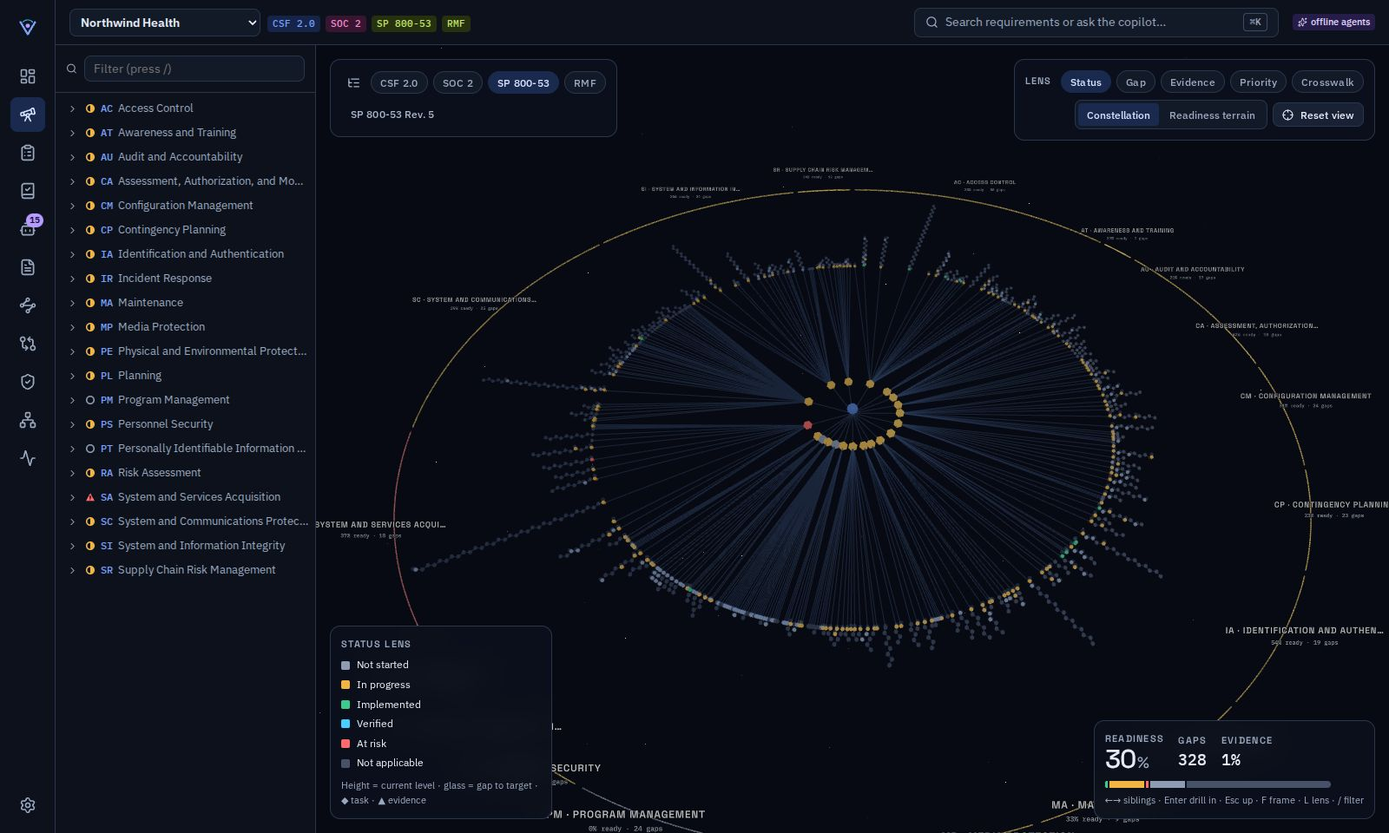
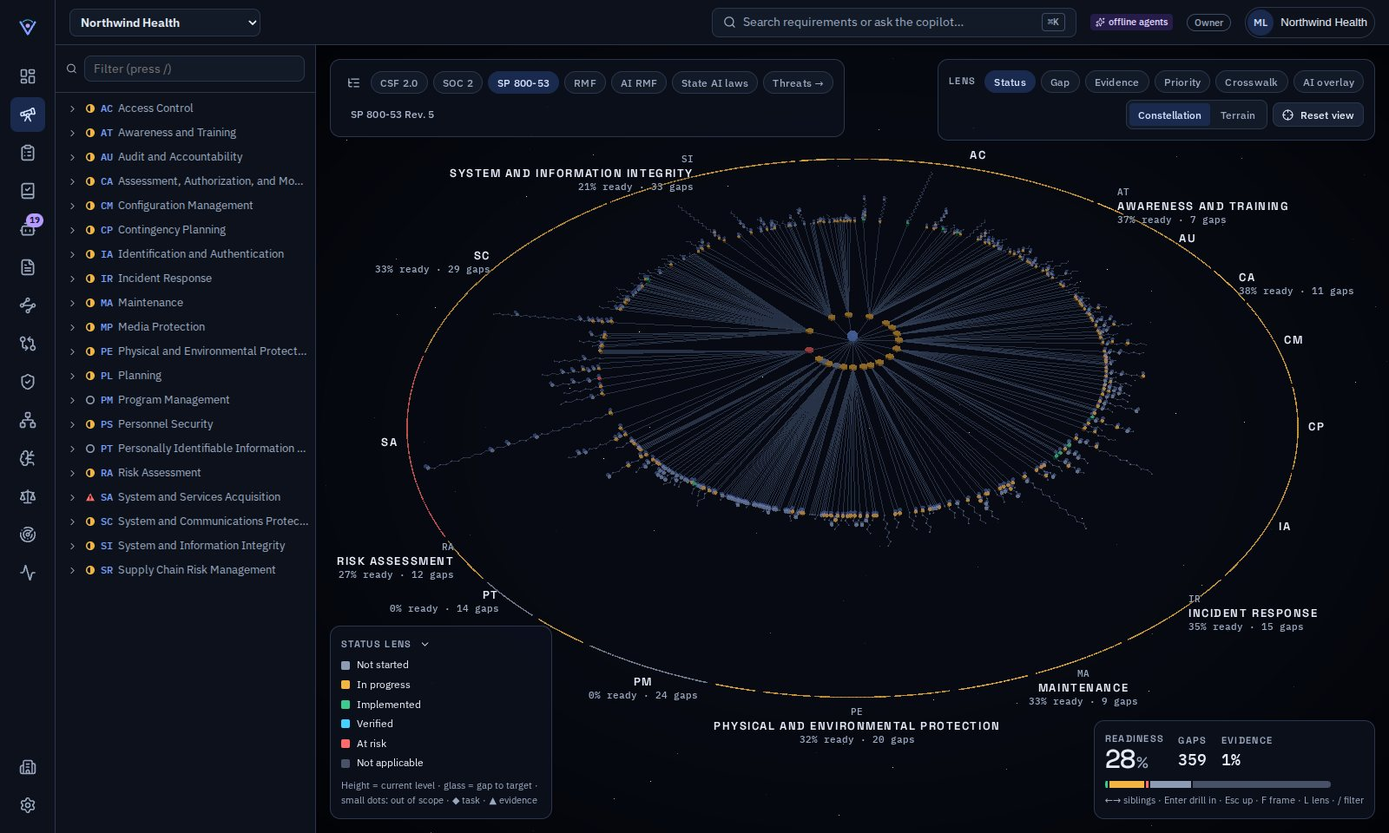
Refresh the README images and the docs to match the current views
- pnpm screens --docs regenerates the nine README images (the same
  views, sizes and selections every time) from the running demo, so the
  images show the current Observatory, Nexus, threat views and pages.
- README: the Observatory's labels and framing, phones, link status on
  Nexus arcs, Copilot answers and agent evidence through proposals, the
  laws timeline and the grouped threat inspector; test counts (138 unit
  and API tests, 20 end-to-end tests) and the screenshot commands.
- Architecture: transfer (compression, ETags, immutable assets), the
  shell and layouts below 1024px, screen-space labels and framing, the
  Nexus's batched arcs and link status, the threat views' grouping and
  matrix keyboard, the laws timeline, build chunks, the tests added in
  this review, and two known limitations found in it (SSO issuer
  discovery reaches private addresses; the demo seeds its history in
  bulk).
- CLAUDE.md lists pnpm screens.

Claude-Session: https://claude.ai/code/session_01RD1CBFZidZXBbs9oq8V2Ae

diff --git a/scripts/screens.ts b/scripts/screens.ts
@@ -10,6 +10,7 @@
  *   pnpm screens --sizes 390x844         only these sizes (default: 1440x900,1024x768,390x844)
  *   pnpm screens --no-build              reuse apps/web/dist
  *   pnpm screens --url http://localhost:8787   shoot a server that is already running
+ *   pnpm screens --docs                  refresh the README images in docs/images instead
  */
 import { chromium, type Browser, type BrowserContext, type Page } from "@playwright/test";
 import { spawn, spawnSync, type ChildProcess } from "node:child_process";
@@ -36,6 +37,7 @@ const sizes = (option("sizes") ?? "1440x900,1024x768,390x844").split(",").map((s
   return { width: width!, height: height!, name: s };
 });
 const OUT = join(ROOT, ".screens", label);
+const DOCS = flag("docs");
 
 // ------------------------------------------------------------------ server
 
@@ -176,6 +178,38 @@ function shots(meta: Meta, runId: string | undefined): Shot[] {
   return only ? list.filter((s) => only.some((o) => s.name.includes(o))) : list;
 }
 
+/** The README's images: the same views every time, so a refresh shows only what changed. */
+interface DocShot {
+  file: string;
+  path: string;
+  kind: Kind;
+  width: number;
+  height: number;
+  act?: (page: Page) => Promise<void>;
+}
+const DOC_SHOTS: DocShot[] = [
+  { file: "observatory-csf.jpg", path: `${WS}/observatory/nist-csf-2.0`, kind: "scene", width: 1600, height: 960 },
+  { file: "crosswalk-nexus.jpg", path: `${WS}/crosswalk`, kind: "scene", width: 1600, height: 960 },
+  { file: "observatory-800-53.jpg", path: `${WS}/observatory/nist-sp-800-53-r5`, kind: "scene", width: 1600, height: 960 },
+  { file: "home.jpg", path: WS, kind: "page", width: 1600, height: 960 },
+  { file: "rmf.jpg", path: `${WS}/rmf`, kind: "page", width: 1600, height: 960 },
+  { file: "ai-governance.jpg", path: `${WS}/ai`, kind: "page", width: 1600, height: 960 },
+  { file: "soc2.jpg", path: `${WS}/soc2`, kind: "page", width: 1600, height: 960 },
+  {
+    file: "threats-atlas.jpg",
+    path: `${WS}/threats/mitre-atlas?select=${encodeURIComponent("mitre-atlas:AML.T0051")}`,
+    kind: "page",
+    width: 1440,
+    height: 900,
+    act: async (page) => {
+      await page.locator(".atlas-matrix").evaluate((el) => el.scrollIntoView({ block: "start" }));
+      await page.locator(".page").first().evaluate((el) => el.scrollBy(0, -170));
+      await page.waitForTimeout(400);
+    },
+  },
+  { file: "nexus-threat-ring.jpg", path: `${WS}/crosswalk?group=${encodeURIComponent("owasp-llm-top10:LLM01")}`, kind: "scene", width: 1440, height: 900 },
+];
+
 // ------------------------------------------------------------------ checks
 
 interface Overflow {
@@ -286,38 +320,56 @@ const browser = await chromium.launch({ args: ["--use-angle=swiftshader", "--ena
 const t0 = Date.now();
 const results: Result[] = [];
 try {
-  const probe = await context(browser, server.base, sizes[0]!, true);
-  const meta = (await (await probe.request.get("/api/meta")).json()) as Meta;
-  const runs = (await (await probe.request.get(`/api/workspaces/${WS_SLUG}/runs?limit=20`)).json()) as { id: string; status: string; agent: string }[];
-  const run = runs.find((r) => r.agent === "auditor-prep") ?? runs.find((r) => r.status === "completed") ?? runs[0];
-  await probe.close();
-  const list = shots(meta, run?.id);
-  console.log(`${list.length} shots × ${sizes.length} sizes → ${relative(ROOT, OUT)}/`);
-  for (const size of sizes) {
-    const signedIn = await context(browser, server.base, size, true);
-    const signedOut = await context(browser, server.base, size, false);
-    for (const shot of list) {
-      // A fresh tab per shot: each 3D view gets its own WebGL context, released when the tab closes.
-      const page = await (shot.signedOut ? signedOut : signedIn).newPage();
-      try {
-        const r = await shoot(page, shot, size);
-        results.push(r);
-        const notes = [r.overflow.length ? `${r.overflow.length} horizontal overflow` : "", r.errors.length ? `${r.errors.length} console error(s)` : ""].filter(Boolean).join(", ");
-        console.log(`  ${size.name.padEnd(9)} ${shot.name.padEnd(40)} ${notes || "ok"}`);
-      } catch (err) {
-        console.log(`  ${size.name.padEnd(9)} ${shot.name.padEnd(40)} FAILED: ${(err as Error).message.split("\n")[0]}`);
-        results.push({ shot: shot.name, size: size.name, file: "", overflow: [], errors: [`harness: ${(err as Error).message.split("\n")[0]}`], ms: 0 });
-      } finally {
-        await page.close();
-      }
+  if (DOCS) {
+    for (const d of DOC_SHOTS) {
+      const ctx = await context(browser, server.base, { width: d.width, height: d.height, name: `${d.width}x${d.height}` }, true);
+      const page = await ctx.newPage();
+      await page.goto(d.path, { waitUntil: "load" });
+      if (d.kind === "scene") await page.locator(".observatory__canvas canvas").first().waitFor({ timeout: 20_000 });
+      else await page.locator("h1, h2").first().waitFor({ timeout: 20_000 });
+      await page.waitForTimeout(d.kind === "scene" ? 3500 : 1000);
+      if (d.act) await d.act(page);
+      const file = join(ROOT, "docs", "images", d.file);
+      await page.screenshot({ path: file, type: "jpeg", quality: 84 });
+      console.log(`  ${relative(ROOT, file)}`);
+      await ctx.close();
     }
-    await signedIn.close();
-    await signedOut.close();
+  } else {
+    const probe = await context(browser, server.base, sizes[0]!, true);
+    const meta = (await (await probe.request.get("/api/meta")).json()) as Meta;
+    const runs = (await (await probe.request.get(`/api/workspaces/${WS_SLUG}/runs?limit=20`)).json()) as { id: string; status: string; agent: string }[];
+    const run = runs.find((r) => r.agent === "auditor-prep") ?? runs.find((r) => r.status === "completed") ?? runs[0];
+    await probe.close();
+    const list = shots(meta, run?.id);
+    console.log(`${list.length} shots × ${sizes.length} sizes → ${relative(ROOT, OUT)}/`);
+    for (const size of sizes) {
+      const signedIn = await context(browser, server.base, size, true);
+      const signedOut = await context(browser, server.base, size, false);
+      for (const shot of list) {
+        // A fresh tab per shot: each 3D view gets its own WebGL context, released when the tab closes.
+        const page = await (shot.signedOut ? signedOut : signedIn).newPage();
+        try {
+          const r = await shoot(page, shot, size);
+          results.push(r);
+          const notes = [r.overflow.length ? `${r.overflow.length} horizontal overflow` : "", r.errors.length ? `${r.errors.length} console error(s)` : ""].filter(Boolean).join(", ");
+          console.log(`  ${size.name.padEnd(9)} ${shot.name.padEnd(40)} ${notes || "ok"}`);
+        } catch (err) {
+          console.log(`  ${size.name.padEnd(9)} ${shot.name.padEnd(40)} FAILED: ${(err as Error).message.split("\n")[0]}`);
+          results.push({ shot: shot.name, size: size.name, file: "", overflow: [], errors: [`harness: ${(err as Error).message.split("\n")[0]}`], ms: 0 });
+        } finally {
+          await page.close();
+        }
+      }
+      await signedIn.close();
+      await signedOut.close();
+    }
   }
 } finally {
   await browser.close();
   server.stop();
 }
+// The README images need no report.
+if (DOCS) process.exit(0);
 mkdirSync(OUT, { recursive: true });
 writeFileSync(join(OUT, "report.json"), JSON.stringify(results.map((r) => ({ ...r, file: relative(OUT, r.file), full: r.full ? relative(OUT, r.full) : undefined })), null, 2));
 writeFileSync(join(OUT, "index.html"), contactSheet(results));

diff --git a/docs/architecture.md b/docs/architecture.md
@@ -331,6 +331,11 @@ notice. They are sent only when the operator sets `VISUA_AICPA_AI_USE=permitted`
     returns coverage in the shape of a state bundle for the 3D Observatory
   - exports and the public trust center
   - `GET /events` (SSE) pushes invalidations and agent steps to clients.
+- **Transfer.** JSON, JavaScript and CSS are compressed (`hono/compress`; the SP 800-53
+  state bundle is 518 KB and travels as 16 KB). Sign-in responses carry the session's
+  CSRF token and are never compressed, so compression cannot become an oracle on it;
+  server-sent events are never compressed either. Framework graphs and `/api/meta`
+  revalidate by ETag, and the web build's hashed assets are cached as immutable.
 - **Connectors.** *Web posture* (HTTPS redirect, HSTS, TLS protocol and certificate
   expiry, security headers, `security.txt`) and *repository hygiene* (SECURITY.md,
   CODEOWNERS, CI, dependency automation, lockfile, secret patterns). Results become
@@ -350,6 +355,14 @@ notice. They are sent only when the operator sets `VISUA_AICPA_AI_USE=permitted`
   Profile, Crosswalk, SOC 2, RMF, AI governance, State AI laws, AI threats, Reports,
   Organization and Settings. It also has a command palette
   (⌘K: search requirements or ask the copilot), a live approvals badge and toasts.
+  - Below 1024px the rail folds into a menu opened from the top bar (DESIGN.md › Layout)
+    and the inspector becomes a bottom sheet with a handle. Two-pane pages stack below
+    900px; Agents and Policies show one pane at a time. No page, panel or table scrolls
+    sideways at 1024px or on a phone (the ATLAS matrix scrolls within itself): a table's
+    secondary columns hide when its panel is narrow (container queries on `.table-box`)
+    or the screen is a phone, the FIPS 199 editor becomes one card per row, and chart
+    rows wrap.
+  - Breakpoints live in `lib/media.ts` (`NARROW`, `PHONE`, `split()`) and `global.css`.
 - **Observatory.** Instanced hex prisms in two layouts:
   - *constellation*: radial sectors per top-level group
   - *readiness terrain*: a honeycomb
@@ -358,9 +371,27 @@ notice. They are sent only when the operator sets `VISUA_AICPA_AI_USE=permitted`
   satellites, evidence crystals and agent comets orbit the prisms. The five lenses
   recolor the scene without moving anything.
 
-  CameraControls fly to a selection. Labels are billboards with level-of-detail
-  sizing, and large labels fade out when the camera comes close. Bloom and vignette
-  are applied under a performance monitor.
+  CameraControls fly to a selection. Bloom and vignette are applied under a performance
+  monitor. Units out of scope (an undecided law's obligations, controls outside the
+  baseline) shrink to small dots; nodes with no unit below them (ATLAS's mitigations)
+  stay in the outline and the inspector but take no place in the scene.
+
+  *Labels* are drawn in screen space (`scene/ScreenLabels.tsx`): code-sm and label-caps
+  at 11–13px, placed by priority whenever the camera moves, and hidden rather than drawn
+  where they would overlap another label, a HUD panel or the canvas edge. Sector titles
+  sit outside the ring on the side they face, and a sector whose title does not fit
+  keeps its code (twenty SP 800-53 families, sixteen ATLAS tactics); a ring of up to 40
+  labeled groups (the state laws) moves out so their codes have room.
+
+  *Framing* (`scene/framing.ts`): the projection is offset so the camera target sits in
+  the middle of the area no HUD band covers, so the scene re-frames when the inspector
+  opens or a bottom sheet covers the canvas; the home view fits the ring and its
+  titles inside the canvas and clear of every panel. The HUD's top bar wraps rather than
+  overlaps, its chips become selects on a narrow canvas (container queries on the
+  stage), and the legend collapses to the lens name and swatches.
+
+  Below 1024px the outline opens over the scene; phones open the Observatory on its
+  outline with the 3D scene one tap away (DESIGN.md › Layout).
 
   The outline is a full 2D twin with tree semantics and keyboard control (←/→ siblings,
   Enter drill in, Esc up, F frame, L lens, / filter). Deep links use `?select=`.
@@ -372,21 +403,38 @@ notice. They are sent only when the operator sets `VISUA_AICPA_AI_USE=permitted`
   keyboard path. An inner **threat ring** holds ATLAS tactics, the OWASP entries and
   the NIST AI 100-2 objectives in neutral ink (threat catalogs have no identity hue);
   their pillars take the status color of their pooled coverage, and their arcs bundle
-  the threat links onto requirement groups.
+  the threat links onto requirement groups. A threat arc shows the status of its
+  strongest link: final solid, draft dashed, unreviewed dotted.
+
+  Labels use the same screen-space layer (framework names with an identity swatch, the
+  threat ring's codes once a pillar is in focus) and the camera frames the ring around
+  the HUD. Arcs are batched into a few draw calls by width, opacity and dash style (the
+  focused pillar's arcs are drawn again on top). Below 1024px the scene and its details
+  stack as one scrolling page.
 - **Threat views.** The Threats page shows the ATLAS matrix (tactics as columns,
   techniques colored by coverage, with glyphs), the OWASP LLM Top 10 by edition, the
   OWASP Agentic Top 10 and the NIST AI 100-2 attacks by objective. A link filter (all
   published, final and draft, final only) is shared with the threat Observatory and
-  the Nexus ring. The threat inspector lists the linked requirements with live status
-  and why each is linked (every link with its publisher and status); a requirement's
-  inspector lists the threats it helps address. Threat catalogs also open in the 3D
-  Observatory, where height is the coverage level.
+  the Nexus ring. In the matrix each tactic is a labeled group; the matrix takes one tab
+  stop and arrow keys move within and across tactics. The threat inspector groups the
+  linked requirements as coverage counts them: a summary per publication (status,
+  requirements at target, progress), then collapsible publication groups split by route
+  (directly, through an ATLAS mitigation, through the other edition's entry, through a
+  group), with live status and why each is linked; a requirement's inspector lists the
+  threats it helps address. Threat catalogs also open in the 3D Observatory, where
+  height is the coverage level.
 - **Laws.** The State AI laws page records which laws apply and in what role, shows an
   effective-date timeline, safe harbors and enforcement, and scopes the obligations.
+  The timeline has one column per month (height: obligations taking effect; filled in
+  force, outlined upcoming), labels only the next wave and the largest month in force,
+  shows every month's laws on hover and keyboard focus, and has a list view.
 - **Programs.**
   - *CSF*: Profile with bullet charts and the Tier assessment
   - *SOC 2*: scope, observation window, DC 200 checklist, readiness by series
   - *RMF*: lifecycle, FIPS 199, tailoring, authorization, readiness by family
+- **Build.** Vite (rolldown) splits the bundle with code-splitting groups: packages in
+  `vendor`, the 3D stack (three.js, react-three-fiber, drei, postprocessing) in `three`,
+  loaded only by the Observatory and the Nexus. Pages are lazy routes.
 - **Design system.** All colors, type, spacing, radii and component tokens come from
   `DESIGN.md`, compiled by `packages/design` into CSS variables and typed tokens.
   - Status colors are semantic and always come with a glyph.
@@ -395,7 +443,7 @@ notice. They are sent only when the operator sets `VISUA_AICPA_AI_USE=permitted`
 
 ## 6. Testing
 
-- `packages/*/test` and `apps/server/test` (Vitest, 98 tests):
+- `packages/*/test` and `apps/server/test` (Vitest, 138 tests):
   - official counts and citations
   - identifier normalization
   - the SOC 2 skeleton and the licensed overlay
@@ -403,8 +451,18 @@ notice. They are sent only when the operator sets `VISUA_AICPA_AI_USE=permitted`
   - API flows: onboarding, RMF categorize/tailor/OSCAL, SOC 2 scoping and DC 200,
     Nexus bundles
   - all eight offline agents, autonomy, connectors, evidence hashing
-  - integrity guardrails: N/A rationale, scope preservation, audit-chain tamper
-    detection, and no plan-as-evidence
+  - integrity guardrails: N/A rationale, scope preservation (documented exclusions
+    survive every scope change), audit-chain tamper detection, no plan-as-evidence, and
+    assessments refused on threat catalogs, frameworks a workspace has not enabled and
+    requirements out of scope, whether a person or an agent's proposal asks
+  - agents: threat, AI RMF and state-law codes read out of a question; the Copilot
+    explaining an ATLAS technique through its published links (and proposing nothing)
+    and a state-law obligation from the statute with section, page, dates and roles;
+    agents proposing passing checks as evidence, filed from the recorded check on
+    approval; licensed text copied into tasks withheld from the model
+  - the trust center publishing only the frameworks a workspace chooses (state AI laws
+    off by default), and transfer: compressed responses, ETag revalidation, and sign-in
+    responses left uncompressed
   - AI governance: AI RMF official counts, the Generative AI Profile's risks and actions,
     the AI system inventory API, Playbook-based planning and the AI RMF profile export
   - overlays: the Cyber AI Profile's priorities for all 106 subcategories and COSAiS's
@@ -418,17 +476,31 @@ notice. They are sent only when the operator sets `VISUA_AICPA_AI_USE=permitted`
     lost updates under two concurrent server instances, cross-instance cache
     invalidation, and the in-place upgrade of a pre-migration SQLite database
   - identity and access (`auth.test.ts`): sign-in requirements, tenant separation (404
-    across organizations), every role's limits, CSRF, API tokens, the organization audit
-    trail, and OpenID Connect against a mock provider (PKCE, replay, JIT provisioning,
-    domain checks, tenant-scoped sessions, Require SSO)
+    across organizations), every role's limits, CSRF (sign-in included), API tokens, the
+    organization audit trail, and OpenID Connect against a mock provider (PKCE, replay,
+    the browser that started the flow, JIT provisioning, domain checks, tenant-scoped
+    sessions, Require SSO, owner-only provider changes, verified email linking,
+    same-site return paths)
+  - the Postgres event relay (`relay.test.ts`): reconnection with backoff, failing fast
+    at startup, NOTIFY payloads sized in bytes
   - `VISUA_TEST_DATABASE_URL=postgres://…` runs the server suites on Postgres, each run
     in its own schema
-- `e2e/` (Playwright, 13 tests) runs against the production bundle served by the API,
-  with an in-memory seeded database and WebGL on SwiftShader. It covers Home, the
-  Observatory and its 2D twin, the Nexus, RMF, SOC 2, AI governance, an agent run with
-  citations, the trust center, persona sign-in, a viewer's read-only view, tenant
-  separation, organization administration, and the threat views (ATLAS matrix, the
-  coverage inspector and its link filter, OWASP editions, the Nexus threat ring).
+- `e2e/` (Playwright, 20 tests) runs against the production bundle served by the API,
+  with an in-memory seeded database and WebGL on SwiftShader. It covers Home and Mission
+  control's program links, the Observatory and its 2D twin, the Nexus, RMF, SOC 2, AI
+  governance, an agent run with citations, the trust center and its per-framework
+  choice, persona sign-in, a viewer's read-only view, tenant separation, organization
+  administration, the threat views (ATLAS matrix and its keyboard navigation, the
+  coverage inspector and its link filter, OWASP editions, the Nexus threat ring), a
+  threat catalog in the Observatory, the State AI laws page (roles deciding scope, the
+  timeline and its list view, obligations in 3D), and layout: labels in the 3D scenes
+  stay inside the canvas and clear of the HUD and of each other at 1440 and 1024
+  pixels, the rail folds into a menu on a phone, no page, panel or table scrolls sideways
+  at 1024 pixels or on a phone, and the Observatory opens on its outline on a phone.
+- `pnpm screens` (`scripts/screens.ts`) photographs every view at 1440×900, 1024×768
+  and 390×844 into the git-ignored `.screens/` folder, with a contact sheet and a
+  report of horizontal overflow and console errors; `--docs` regenerates the README
+  images.
 
 ## 7. Known limitations
 
@@ -439,8 +511,16 @@ notice. They are sent only when the operator sets `VISUA_AICPA_AI_USE=permitted`
   phish them), and first come holds a domain until an operator intervenes. DNS
   verification is on the roadmap; until then, run a shared installation only for
   organizations you trust with their domain claims.
+- The server fetches an SSO connection's issuer (OpenID discovery) when someone signs in
+  through it. Only owners choose an issuer and it must use https, but private addresses
+  are not blocked, because identity providers such as Keycloak often run on internal
+  networks. In a shared installation, limit the server's outbound network to the
+  identity providers you use.
 - SAML and SCIM provisioning are not implemented; OpenID Connect covers the major
   identity providers.
+- The demo's historical assessment levels are written to storage in bulk when it is
+  seeded (they are history, not changes anyone made); everything after seeding goes
+  through `VisuaService` and the audit trail.
 - Connectors cover web posture and repository hygiene only. Cloud, IdP, HRIS and MDM
   integrations are on the roadmap.
 - The SOC 2 structured extraction tooling is not in the repository. Installations

diff --git a/README.md b/README.md
@@ -25,16 +25,16 @@ OWASP Top 10s show which AI threats the program addresses.
 
 | Area | What you get |
 |---|---|
-| **Observatory (3D + 2D twin)** | Every framework as a constellation or readiness terrain: 106 CSF outcomes, 61 SOC 2 criteria, all 1,014 SP 800-53 controls and enhancements, 47 RMF tasks, 72 AI RMF outcomes and 187 state-law obligations. Lenses (status, gap, evidence, priority, crosswalk, AI overlay) recolor the same space. Threat catalogs open in the same space with height = coverage. A keyboard-first outline mirrors every object, and the scene respects reduced motion. |
-| **Crosswalk Nexus (3D)** | All frameworks on one ring, with 2,188 authoritative mappings bundled into arcs (998 in a fresh clone; the AICPA sets need the local AICPA copy): NIST OLIR (CSF 2.0 ↔ SP 800-53 5.2.0, ↔ SP 800-37r2), AICPA (TSC ↔ SP 800-53 r5), and composed and editorial sets that are labeled as such. An inner **threat ring** bundles the published links from ATLAS tactics, OWASP entries and NIST AI 100-2 objectives onto requirement groups. Select a group to see every unit-level mapping with live status on both sides. *A mapping is never evidence.* |
-| **Agents** | Eight glass-box agents: Copilot, Assessor, Planner, Policy Author, Evidence Collector, Crosswalk Analyst, Audit Prep and Task Executor. They run on Claude (streamed tool loop, adaptive thinking, prompt caching, server-side fallbacks) or as deterministic offline playbooks. Either way they use the same tools, citations and approval flow. |
+| **Observatory (3D + 2D twin)** | Every framework as a constellation or readiness terrain: 106 CSF outcomes, 61 SOC 2 criteria, all 1,014 SP 800-53 controls and enhancements, 47 RMF tasks, 72 AI RMF outcomes and 187 state-law obligations. Lenses (status, gap, evidence, priority, crosswalk, AI overlay) recolor the same space. Threat catalogs open in the same space with height = coverage. Labels are drawn at the type scale and never overlap each other or the HUD, and the camera frames the scene around the panels at any window size. A keyboard-first outline mirrors every object (on phones it opens first, with the 3D scene one tap away), and the scene respects reduced motion. |
+| **Crosswalk Nexus (3D)** | All frameworks on one ring, with 2,188 authoritative mappings bundled into arcs (998 in a fresh clone; the AICPA sets need the local AICPA copy): NIST OLIR (CSF 2.0 ↔ SP 800-53 5.2.0, ↔ SP 800-37r2), AICPA (TSC ↔ SP 800-53 r5), and composed and editorial sets that are labeled as such. An inner **threat ring** bundles the published links from ATLAS tactics, OWASP entries and NIST AI 100-2 objectives onto requirement groups; each arc shows its strongest link's status (final solid, draft dashed, unreviewed dotted). Select a group to see every unit-level mapping with live status on both sides. *A mapping is never evidence.* |
+| **Agents** | Eight glass-box agents: Copilot, Assessor, Planner, Policy Author, Evidence Collector, Crosswalk Analyst, Audit Prep and Task Executor. They run on Claude (streamed tool loop, adaptive thinking, prompt caching, server-side fallbacks) or as deterministic offline playbooks. Either way they use the same tools, citations and approval flow: the Copilot answers about a state law or an ATLAS technique with citations, and even an automated check's result reaches the evidence locker only as a proposal. |
 | **NIST CSF 2.0** | Organizational Profiles (Current/Target, official CSV template), the CSWP 29 Tier self-assessment, 363 Implementation Examples as checklists, maturity-adaptive targets and priorities. |
 | **SOC 2** | Scope by Trust Services Category, Type 1 or Type 2, and the observation window. Readiness by series, the DC 200 system-description checklist drafted from recorded facts, and a PBC request list. |
 | **NIST RMF / SP 800-53** | The seven-step lifecycle. FIPS 199 categorization (high-water mark) selects the SP 800-53B baseline. Tailoring requires a rationale. The authorization decision is recorded, never made by Visua. OSCAL 1.1.2 SSP and POA&M export. |
 | **AI governance (NIST AI RMF)** | An AI system inventory (purpose, role, lifecycle stage, risk tier, data, human oversight) and readiness across GOVERN, MAP, MEASURE and MANAGE, with 460 Playbook suggested actions as checklists. When any system is generative, the NIST AI 600-1 Generative AI Profile applies: its 12 GAI risks and 212 actions, tracked through the outcomes they attach to. Texas's TRAIGA makes substantial compliance with that profile an affirmative defense. An AI RMF profile export and an AI governance policy template are included. |
 | **AI security overlays (NIST drafts)** | The Cyber AI Profile (NIST IR 8596 iprd) on CSF 2.0: considerations and a proposed priority for each of the 106 subcategories per focus area (Secure, Defend, Thwart), adoptable per workspace, with an overlay lens and an optional priority raise. COSAiS (SP 800-53 Control Overlays for Securing AI Systems) on SP 800-53: the predictive-AI overlay's 59 controls brought into scope on adoption, with their tailoring and NIST AI 100-2 attacks. Drafts are always labeled as drafts. |
-| **U.S. state AI laws** | 26 laws and regulations in California, Colorado, Illinois, Maine, New York, New York City, Texas and Utah, with 187 obligations quoted from the enrolled statutes and adopted regulations. Record the role you hold under each law's own definitions (developer, deployer, employer, operator…) and Visua scopes exactly those obligations, with an effective-date timeline, safe harbors (including those that recognize the NIST AI RMF) and enforcement. Readiness counts the obligations in force today; upcoming ones are prepared for and tracked apart, and ended ones drop out on their date. A tracking tool, not legal advice. |
-| **AI threat views** | MITRE ATLAS 2026.09 (the tactic × technique matrix), the OWASP Top 10 for LLM Applications 2026 (and 2025, with each entry's counterpart) and for Agentic Applications 2026, and NIST AI 100-2's 25 attacks. Threats are never assessed: coverage is derived from the requirements that MITRE, OWASP and NIST link to each threat, directly, through an ATLAS mitigation or through the other OWASP edition. Every link shows its publisher and status (final, draft, unreviewed, superseded), and one filter decides which count. |
+| **U.S. state AI laws** | 26 laws and regulations in California, Colorado, Illinois, Maine, New York, New York City, Texas and Utah, with 187 obligations quoted from the enrolled statutes and adopted regulations. Record the role you hold under each law's own definitions (developer, deployer, employer, operator…) and Visua scopes exactly those obligations, with an effective-date timeline (by month, with a list view), safe harbors (including those that recognize the NIST AI RMF) and enforcement. Readiness counts the obligations in force today; upcoming ones are prepared for and tracked apart, and ended ones drop out on their date. A tracking tool, not legal advice. |
+| **AI threat views** | MITRE ATLAS 2026.09 (the tactic × technique matrix), the OWASP Top 10 for LLM Applications 2026 (and 2025, with each entry's counterpart) and for Agentic Applications 2026, and NIST AI 100-2's 25 attacks. Threats are never assessed: coverage is derived from the requirements that MITRE, OWASP and NIST link to each threat, directly, through an ATLAS mitigation or through the other OWASP edition. Every link shows its publisher and status (final, draft, unreviewed, superseded), and one filter decides which count. A threat's linked requirements are grouped by publication and by route, and the ATLAS matrix is navigable with the arrow keys. |
 | **Evidence & monitoring** | Evidence with provenance (source, SHA-256, reviewer, validity window, freshness), plus connectors for web posture (TLS, HSTS, security headers, security.txt) and repository hygiene. |
 | **Integrity guardrails** | A hash-chained, tamper-evident audit trail. "Not applicable" requires a written rationale, and scope changes never overwrite it. Agents never file plans as evidence. The trust center publishes computed facts only. Visua never issues audit opinions. |
 
@@ -173,8 +173,10 @@ Details: [`docs/architecture.md`](docs/architecture.md). Design system:
 
 ```sh
 pnpm typecheck       # all packages (TypeScript 7)
-pnpm test            # 98 unit, API, storage and auth tests (Vitest; add VISUA_TEST_DATABASE_URL=postgres://… for Postgres)
-pnpm test:e2e        # 13 Playwright end-to-end tests against the production build (WebGL via SwiftShader)
+pnpm test            # 138 unit, API, storage and auth tests (Vitest; add VISUA_TEST_DATABASE_URL=postgres://… for Postgres)
+pnpm test:e2e        # 20 Playwright end-to-end tests against the production build (WebGL via SwiftShader)
+pnpm screens         # screenshots of every view at 1440×900, 1024×768 and 390×844 into .screens/ (git-ignored)
+pnpm screens --docs  # regenerate the README images in docs/images/
 pnpm design:lint     # DESIGN.md lint
 pnpm design:tokens   # regenerate tokens from DESIGN.md
 pnpm corpus:verify   # SHA-256 check of the local corpus

diff --git a/CLAUDE.md b/CLAUDE.md
@@ -12,6 +12,9 @@ Visua is a pnpm monorepo (Node ≥ 22.18, native TypeScript, `node:sqlite`). Rea
 - `pnpm design:lint` after any change to `DESIGN.md`, then `pnpm design:tokens`
 - `pnpm ingest` after any change to `corpus/` or `packages/frameworks/src/ingest/*`
 - `pnpm corpus:verify` to hash-check the corpus
+- `pnpm screens` photographs every view at 1440×900, 1024×768 and 390×844 into `.screens/`
+  (git-ignored) with a contact sheet and an overflow report; `pnpm screens --docs` refreshes
+  the README images
 
 Run `pnpm typecheck && pnpm test` before committing. Run `pnpm test:e2e` when you
 change the web app.
